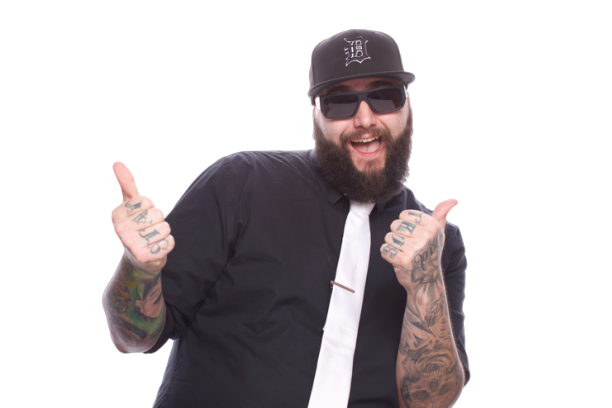
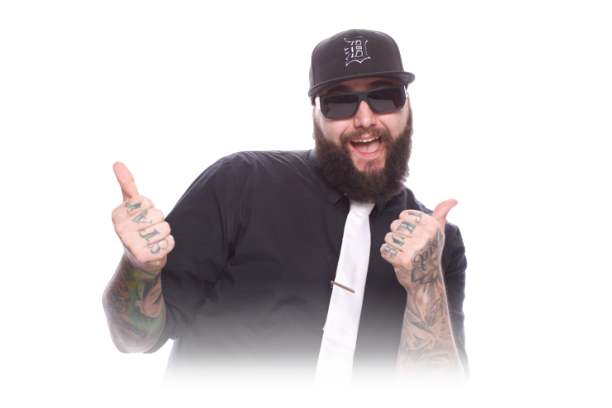
more things

Changed region(s): [[0.1552, 0.7353, 0.5588, 1.0], [0.5588, 0.7353, 0.7761, 1.0]]

diff --git a/index.html b/index.html
@@ -12,21 +12,27 @@
     <div class="grid-container">
       <section class="headshot">
         <div class="headshot-wrapper">
-          <img src="assets/headshot.png" alt="Chris DeMars headshot" />
+          <img src="assets/headshot-gradient.png" alt="Chris DeMars headshot" />
         </div>
       </section>
       <section class="generate-section">
         <div class="generate-wrapper">
           <h1>DeMars Ipsum</h1>
           <form action="">
-            <label for="numberOfParagraphs">
-              Number of paragraphs:
-            </label>
-            <input type="text" />
-            <label for="demarsSteez">DeMars Steez?</label>
-            <input type="checkbox" id="demarsSteez" name="demarsSteez" />
-            <label for="lorem">Lorem first?</label>
-            <input type="checkbox" id="lorem" name="lorem" />
+            <div class="ipsum-customize">
+              <label for="numberOfParagraphs">
+                Number of paragraphs:
+              </label>
+              <input type="text" />
+              <div>
+                <label for="demarsSteez">DeMars Steez?</label>
+                <input type="checkbox" id="demarsSteez" name="demarsSteez" />
+              </div>
+              <div>
+                <label for="lorem">Lorem first?</label>
+                <input type="checkbox" id="lorem" name="lorem" />
+              </div>
+            </div>
             <button class="generate-lipsum">Generate that shit!</button>
           </form>
           <div class="lorem-paragraphs"></div>

diff --git a/css/styles.css b/css/styles.css
@@ -68,3 +68,9 @@ h1 {
   margin-top: 50px;
   border: 1px solid black;
 }
+
+button {
+  width: 200px;
+  height: 50px;
+  padding: 10px 5px;
+}
